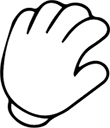
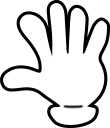
add suitGame

Changed region(s): [[0.0, 0.0, 1.0, 1.0]]

diff --git a/js/suitGame.js b/js/suitGame.js
@@ -1,0 +1,180 @@
+//index 0: scissor 1:rock 2:paper
+const question1 = [{
+    quest: 'Aku pikir bolanya di tim kakak.',
+
+    user:[
+	'Enggak, bolanya jelas ada di timmu.',
+	'Mari kita review bareng-bareng.',
+	'Kami coba ambil dulu bolanya.',
+    ],
+
+    userScissor :[
+	'Kita catat dulu biar manager yang decide.',
+	'Setelah di-mapping, bolanya ada di tim kakak.',
+	'Ternyata memang di tim kami'
+	],
+
+    userRock :[
+	'Ternyata memang di tim kami.',
+	'Setuju, review bareng aja.',
+	'Kenapa review lagi, waktunya udah mepet.'
+	],
+
+    userPaper :[
+	'Bagus, memang itu bagian timmu.',
+	'Maaf, setelah direview bolanya ada di tim kami.',
+	'Kita mapping dulu siapa yang pegang bola sebenarnya.'
+	],
+}]
+
+const question2 = [{
+    quest: 'Agak jauh ya dari last discussion.',
+
+    user:[
+	'Discussion kemarin nggak relevan lagi.',
+	'Ga terlalu jauh, kita bisa tarik benang merahnya.',
+	'Benar, jauh dari last discussion.',
+    ],
+
+    userScissor :[
+	'Kita tarik benang merahnya aja biar nyambung.',
+	'Discussion kemarin sudah final, jangan di-skip.',
+	'Betul juga.'
+	],
+
+    userRock :[
+	'Benar, memang ada benang merahnya.',
+	'Aku ikutin benang merahmu.',
+	'Nah kan, ternyata tidak ada benang merahnya.'
+	],
+
+    userPaper :[
+	'Nah, kan. Discussion kemarin jadi nggak ada gunanya.',
+	'Maaf, discussion kemarin ternyata gak relevan lagi.',
+	'Kita tarik benang merahnya aja biar nyambung.'
+	],
+}]
+
+
+const question3 = [{
+    quest: 'Nah, itu bottleneck-nya dimana ya, kak?',
+
+    user:[
+	'Kita coba review bareng.',
+	'Bottleneck jelas di timmu, bukan di kami.',
+	'Sepertinya ada di tim kami.',
+    ],
+
+    userScissor :[
+	'Kita sama-sama lagi review juga.',
+	'Nah kan, setelah direview memang ada ditimmu.',
+	'Maaf, setelah direview ternyata ada di tim kami.'
+	],
+
+    userRock :[
+	'I see, mungkin timku perlu re-adjust timeline lagi.',
+	'Kita catat dulu biar manager yang decide.',
+	'Tapi setelah dicek root causenya ada di timmu nih, kak.'
+	],
+
+    userPaper :[
+	'Exactly, segera diselesaikan ya.',
+	'Maaf, setelah direview ternyata ada di tim kami.',
+	'Ternyata ada bagian tim kami juga nih, kita aligned sama sama ya.'
+	],
+}]
+
+
+const question4 = [{
+    quest: 'As I mentioned before on the call yesterday ya, kak.',
+
+    user:[
+	'Gak ada yang confirm kemarin',
+	'Yes, sudah kita note juga kemarin.',
+	'Oke, mungkin miss dari kami.',
+    ],
+
+    userScissor :[
+	'Kita sama-sama miss kemarin ya, kak. Coba recheck bareng.',
+	'Wait, di minutes kemarin udah ada loh.',
+	'Maaf kak, ternyata miss dari kami.'
+	],
+
+    userRock :[
+	'Oke noted, berarti ada alignment gap di timku ya.',
+	'Oke, berarti kita aligned ya.',
+	'Kalau gitu timmu catatannya beda nih, kak. Coba align ulang aja.'
+	],
+
+    userPaper :[
+	'Lain kali tolong di recheck sebelum meeting ya kak.',
+	'Maaf ternyata memang belum dimention kemarin ya, kak',
+	'Kita sama-sama miss kemarin ya, kak. Coba recheck bareng.'
+	],
+}]
+
+const listQuestion = [question1, question2, question3, question4]
+
+const rock = document.getElementById("rock");
+const scissor = document.getElementById("scissor");
+const paper = document.getElementById("paper");
+const imgEnemy = document.getElementById("imgEnemy");
+
+let idx;
+let compRandom;
+
+function startGame() {
+const getArray = (arrayName) => {
+    const index = Math.floor(Math.random() * arrayName.length);
+    return arrayName[index];
+}
+
+idx = getArray(listQuestion);
+compRandom = Math.floor(Math.random() * 3);
+
+document.getElementsByTagName("h1")[0].innerHTML = idx[0].quest;
+scissor.innerHTML = idx[0].user[0]
+rock.innerHTML = idx[0].user[1]
+paper.innerHTML = idx[0].user[2]
+
+return idx;
+}
+
+scissor.addEventListener("click", function() {
+	const userAnswer = 0;
+	document.getElementsByTagName("h1")[0].innerHTML = idx[0].userScissor[compRandom];
+	findingWinner(userAnswer);
+})
+
+rock.addEventListener("click", function() {
+	const userAnswer = 1;
+	document.getElementsByTagName("h1")[0].innerHTML = idx[0].userRock[compRandom];
+	findingWinner(userAnswer);
+})
+
+paper.addEventListener("click", function() {
+	const userAnswer = 2;
+	document.getElementsByTagName("h1")[0].innerHTML = idx[0].userPaper[compRandom];
+	findingWinner(userAnswer);
+})
+
+let winCount = 0;
+
+function findingWinner (userAnswer) {
+	if (compRandom === userAnswer) {
+		console.log('DRAW')
+	} else if ((compRandom-userAnswer + 3) % 3 === 1){
+		console.log('YOU loose')
+		winCount--;
+	} else {
+		console.log('YOU win')
+		winCount++;
+	}
+	console.log('YOU:', userAnswer)
+	console.log('COMP:',compRandom)
+	console.log(winCount)
+	
+}
+
+
+startGame();

diff --git a/suit-game.html b/suit-game.html
@@ -20,27 +20,26 @@
     <!-- css -->
     <link rel="stylesheet" href="./css/style.css">
 
-    <script src="./js/clickerGame.js" defer></script>
+    <script src="./js/suitGame.js" defer></script>
 </head>
+<body>
+    <main class="h-[100vh] flex flex-col items-center justify-center gap-2">
+        <img id="imgEnemy" src="./assets/mates-1.png" class="w-[30%]">
+        <h1 class="text-xl">question</h1>
 
-<body class="w-[100vw] h-[100vh]">
+        <div class="flex gap-[2%] justify-center w-full text-center leading-4">
+            <section id="rock" class="border-1 rounded-[5px] w-[20%] h-[100px] flex items-center justify-center cursor-pointer">
+                rock
+            </section>
 
-    <main class="flex flex-col justify-center items-center h-[100vh]">
-        <section class="text-center">
-            <h1 class="text-xl">Chase your teamates before times up!</h1>
-            <div class="flex justify-center items-center gap-[5px]">
-                <h2 class="text-xl"><b>Time Left :</b></h2>
-                <h2 id="countDown" class="text-3xl">60</h2>
-            </div>
-        </section>
+            <section id="paper" class="border-1 rounded-[5px] w-[20%] h-[100px] flex items-center justify-center cursor-pointer">
+                paper
+            </section>
 
-        <section class="w-[90dvw] h-[90dvh]  text-center relative">
-            <img src="./assets/bg-clicker-1.png" class="absolute pointer-events-none h-[100%]">
-            <img src="./assets/bg-clicker-2.png" class="absolute z-3 pointer-events-none h-[100%]">
-            <img src="./assets/cursor-hand.png" class="w-[5%] absolute pointer-events-none" id="cursorHand">
-        </section>
-
-        <h2 id="score" class="text-3xl"><b>Score : 0</b></h2>
+             <section id="scissor" class="border-1 rounded-[5px] w-[20%] h-[100px] flex items-center justify-center cursor-pointer">
+                scissor
+            </section>
+        </div>
     </main>
 </body>
 </html>

diff --git a/js/clickerGame.js b/js/clickerGame.js
@@ -16,6 +16,20 @@ document.addEventListener("mousemove", (e) => {
 })
 
 let score = 0;
+let timeLeft = 60;
+
+const countDown = document.getElementById("countDown")
+
+setInterval(function timerCountDown(){
+    countDown.textContent = timeLeft;
+    timeLeft--;
+
+    if (timeLeft < 0) {
+        clearInterval(timerCountDown);
+        countDown.textContent = "waktu habis";
+        alert("waktu habis")
+    }
+},1000)
 
 function randomPosition(timer) {
     setInterval(function(){
@@ -33,8 +47,8 @@ function randomPosition(timer) {
 
 
 imgMates.onload = () => {
-    imgMates.style.width = "10%"
-    randomPosition(2000);}
+    imgMates.style.width = "8%";
+}
 
 imgMates.addEventListener("click", function(){
     score++;
@@ -42,4 +56,6 @@ imgMates.addEventListener("click", function(){
     document.getElementById("score").innerHTML = `Score : ${score}`
 });
 
+
+randomPosition(1000);
 main.appendChild(imgMates);
